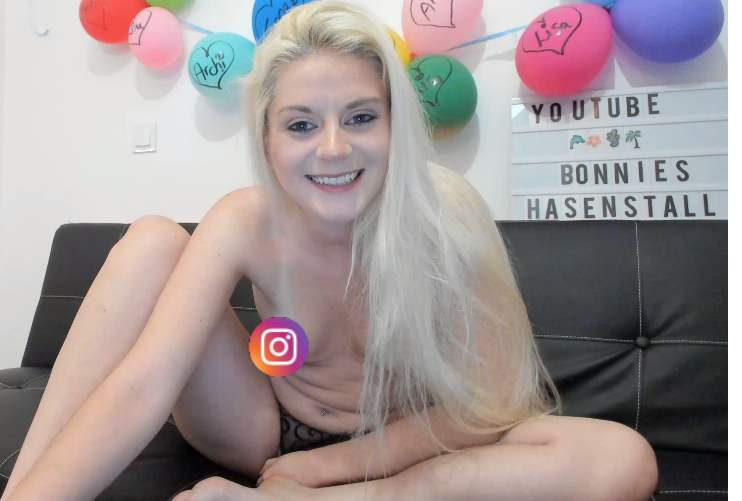
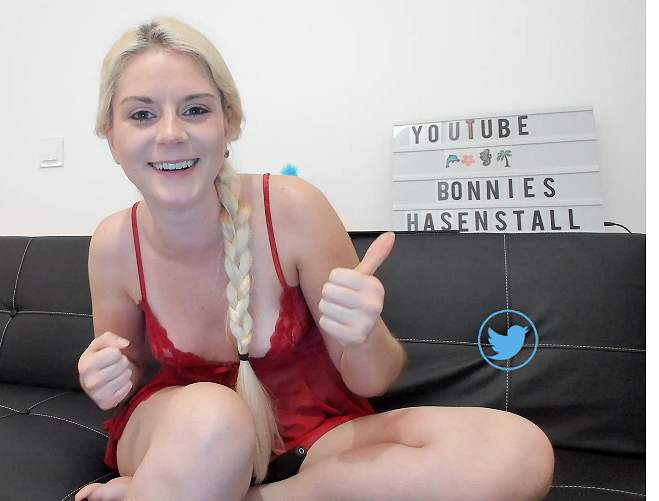
Commit to YOURCURRENTBRANCH

diff --git a/girls/bonnie/_vti_cnf/jungespaar2822.htm b/girls/bonnie/_vti_cnf/jungespaar2822.htm
@@ -1,11 +1,11 @@
 vti_encoding:SR|utf8-nl
 vti_author:SR|Office-PC\\Office
 vti_modifiedby:SR|Office-PC\\Office
-vti_timelastmodified:TR|11 Jun 2020 10:51:51 -0000
+vti_timelastmodified:TR|11 Jun 2020 13:43:26 -0000
 vti_timecreated:TR|03 Nov 2019 10:23:31 -0000
 vti_title:SR|Die Livecam der Bonnie (jungespaar2822) live aus Madeira
 vti_extenderversion:SR|12.0.0.0
-vti_nexttolasttimemodified:TW|11 Jun 2020 10:50:25 -0000
+vti_nexttolasttimemodified:TW|11 Jun 2020 13:39:50 -0000
 vti_backlinkinfo:VX|index.htm girls/bonnie/jungespaar2822.htm AAAltes\\ Zeug/lisa/index.htm girls/hotbella/index.htm girls/sastina/index.htm girls/index.htm kimilee22/index.htm girls/veronika_rose/index.htm
 vti_syncofs_webcam-darstellerin.com\:21/webcam-darstellerin.com:TW|14 Nov 2019 10:40:54 -0000
 vti_syncwith_webcam-darstellerin.com\:21/webcam-darstellerin.com:TX|12 Nov 2019 11:52:58 -0000
@@ -18,12 +18,12 @@ vti_syncwith_93.104.209.49\:21/%2fhttpdocs/webcam-darstellerin.com:TX|11 Feb 202
 vti_syncofs_93.104.209.49\:21/%2fhttpdocs/webcam-darstellerin.com:TW|11 Feb 2020 15:27:44 -0000
 vti_syncwith_ftpupload.net\:21/%2fwebcam-darstellerin.com/htdocs:TX|11 Feb 2020 15:26:57 -0000
 vti_syncofs_ftpupload.net\:21/%2fwebcam-darstellerin.com/htdocs:TW|14 Feb 2020 19:49:24 -0000
-vti_cacheddtm:TX|11 Jun 2020 10:51:52 -0000
-vti_filesize:IR|14147
+vti_cacheddtm:TX|11 Jun 2020 13:43:26 -0000
+vti_filesize:IR|14043
 vti_cachedtitle:SR|Die Livecam der Bonnie (jungespaar2822) live aus Madeira
 vti_cachedbodystyle:SR|<body style="background-color: #FFD7D7; margin-left: 0; margin-right: 0; margin-top: 0;">
-vti_cachedlinkinfo:VX|H|../../index.htm S|../../dateien-deutsche-camgirls/banner.jpg K|jungespaar2822.htm K|jungespaar2822.htm S|bonnie-jungespaar2822.jpg H|Jungespaar2822\\ ist\\ die\\ Ulknudel\\ unter\\ den\\ deutschsprachigen\\ Webcam-Girls\\ und\\ liefert\\ ihren\\ Fans\\ auf\\ Chaturbate\\ eine\\ unterhaltsam\\ erotische\\ Show.\\ Auf\\ Twitch\\ begeistert\\ Camgirl\\ Bonnie\\ unter\\ dem\\ Namen\\ deinBonnieTV\\ mit\\ sportlichen\\ Übungen. K|jungespaar2822.htm K|jungespaar2822.htm -S|https://chaturbate.com/in/ -H|https://chaturbate.com/in/ -S|../zur-livecam.gif -K|bonnie.htm -H|https://amzn.to/2QeJQDh I|bonnie.htm H|https://twitter.com/bonnieclydecb H|https://www.tiktok.com/@bonnieclydecb H|https://www.twitch.tv/deinbonnietv/ S|https://www.youtube-nocookie.com/embed/ILaV3zYAOng H|https://www.youtube.com/channel/UCDfNbqBCUe9yeG1Pbl1Es5Q H|jungespaar2822.htm H|../../kimilee22/index.htm H|../sastina/index.htm H|../hotbella/index.htm H|../veronika_rose/index.htm H|../index.htm S|../../impressum.gif -H|../../impressum/index.htm -H|../../index.htm -S|//sichere-verbindung.webcam-darstellerin.com/matomo.php I|../../footer.htm
-vti_cachedsvcrellinks:VX|FHUS|index.htm FSUS|dateien-deutsche-camgirls/banner.jpg FKUS|girls/bonnie/jungespaar2822.htm FKUS|girls/bonnie/jungespaar2822.htm FSUS|girls/bonnie/bonnie-jungespaar2822.jpg NHUS|girls/bonnie/Jungespaar2822\\ ist\\ die\\ Ulknudel\\ unter\\ den\\ deutschsprachigen\\ Webcam-Girls\\ und\\ liefert\\ ihren\\ Fans\\ auf\\ Chaturbate\\ eine\\ unterhaltsam\\ erotische\\ Show.\\ Auf\\ Twitch\\ begeistert\\ Camgirl\\ Bonnie\\ unter\\ dem\\ Namen\\ deinBonnieTV\\ mit\\ sportlichen\\ Übungen. FKUS|girls/bonnie/jungespaar2822.htm FKUS|girls/bonnie/jungespaar2822.htm FIUS|girls/bonnie/bonnie.htm NHSS|https://twitter.com/bonnieclydecb NHSS|https://www.tiktok.com/@bonnieclydecb NHSS|https://www.twitch.tv/deinbonnietv/ NSSS|https://www.youtube-nocookie.com/embed/ILaV3zYAOng NHSS|https://www.youtube.com/channel/UCDfNbqBCUe9yeG1Pbl1Es5Q FHUS|girls/bonnie/jungespaar2822.htm FHUS|kimilee22/index.htm FHUS|girls/sastina/index.htm FHUS|girls/hotbella/index.htm FHUS|girls/veronika_rose/index.htm FHUS|girls/index.htm FSUS|impressum.gif FIUS|footer.htm
+vti_cachedlinkinfo:VX|H|../../index.htm S|../../dateien-deutsche-camgirls/banner.jpg K|jungespaar2822.htm K|jungespaar2822.htm S|bonnie-jungespaar2822.jpg H|Jungespaar2822\\ ist\\ ein\\ deutschsprachiges\\ Webcam-Girl. K|jungespaar2822.htm K|jungespaar2822.htm -S|https://chaturbate.com/in/ -H|https://chaturbate.com/in/ -S|../zur-livecam.gif -K|bonnie.htm -H|https://amzn.to/2QeJQDh I|bonnie.htm H|https://twitter.com/bonnieclydecb H|https://www.tiktok.com/@bonnieclydecb H|https://www.twitch.tv/deinbonnietv/ S|https://www.youtube-nocookie.com/embed/ILaV3zYAOng H|https://www.youtube.com/channel/UCDfNbqBCUe9yeG1Pbl1Es5Q H|jungespaar2822.htm H|../../kimilee22/index.htm H|../sastina/index.htm H|../hotbella/index.htm H|../veronika_rose/index.htm H|../index.htm S|../../impressum.gif -H|../../impressum/index.htm -H|../../index.htm -S|//sichere-verbindung.webcam-darstellerin.com/matomo.php I|../../footer.htm
+vti_cachedsvcrellinks:VX|FHUS|index.htm FSUS|dateien-deutsche-camgirls/banner.jpg FKUS|girls/bonnie/jungespaar2822.htm FKUS|girls/bonnie/jungespaar2822.htm FSUS|girls/bonnie/bonnie-jungespaar2822.jpg NHUS|girls/bonnie/Jungespaar2822\\ ist\\ ein\\ deutschsprachiges\\ Webcam-Girl. FKUS|girls/bonnie/jungespaar2822.htm FKUS|girls/bonnie/jungespaar2822.htm FIUS|girls/bonnie/bonnie.htm NHSS|https://twitter.com/bonnieclydecb NHSS|https://www.tiktok.com/@bonnieclydecb NHSS|https://www.twitch.tv/deinbonnietv/ NSSS|https://www.youtube-nocookie.com/embed/ILaV3zYAOng NHSS|https://www.youtube.com/channel/UCDfNbqBCUe9yeG1Pbl1Es5Q FHUS|girls/bonnie/jungespaar2822.htm FHUS|kimilee22/index.htm FHUS|girls/sastina/index.htm FHUS|girls/hotbella/index.htm FHUS|girls/veronika_rose/index.htm FHUS|girls/index.htm FSUS|impressum.gif FIUS|footer.htm
 vti_cachedneedsrewrite:BR|true
 vti_cachedhasbots:BR|true
 vti_cachedhastheme:BR|false

diff --git a/girls/bonnie/jungespaar2822.htm b/girls/bonnie/jungespaar2822.htm
@@ -97,6 +97,9 @@ a {
 	margin-top: 3px;
 	margin-bottom: 3px;
 }
+.auto-style94 {
+	color: #484646;
+}
 </style>
 <meta content="Jungespaar2822,Livecam,Bonnie,Livestream,Webcamgirl,Webcam-Girl,Webcam-Darstellerin,Erotikdarstellerin,deutsch,deutschsprachig" name="keywords">
 <meta content="Das deutschsprachige Webcam-Girl Bonnie alias Jungespaar2822 sorgt mit seinen denkwürdigen Erotik-Livestreams auf Chaturbate für Furore." name="description">
@@ -124,10 +127,10 @@ a {
 	<h1 class="auto-style64">Die Livecam der Bonnie (jungespaar2822)*</h1>
 	<p class="auto-style26">
 	<map id="ImgMap1" name="ImgMap1">
-		<area alt="" coords="135, 169, 28" href="#Jungespaar2822 Socialmedia" shape="circle" target="_self">
-		<area alt="" coords="248, 42, 355, 110" href="#Jungespaar2822 Youtube Bonnies Hasenstall" shape="rect" target="_self">
+		<area alt="" coords="249, 167, 19" href="#Jungespaar2822 Socialmedia" shape="circle" target="_self">
+		<area alt="" coords="191, 54, 291, 116" href="#Jungespaar2822 Youtube Bonnies Hasenstall" shape="rect" target="_self">
 	</map>
-	<img alt="Jungespaar2822 (Bonnie) als deutsches Webcam-Girl auf Chaturbate." title="Webcam-Girl Jungespaar2822 (Bonnie)" class="auto-style93" height="246" longdesc="Jungespaar2822 ist die Ulknudel unter den deutschsprachigen Webcam-Girls und liefert ihren Fans auf Chaturbate eine unterhaltsam erotische Show. Auf Twitch begeistert Camgirl Bonnie unter dem Namen deinBonnieTV mit sportlichen Übungen." src="bonnie-jungespaar2822.jpg" style="float: left" usemap="#ImgMap1" width="364">Dass 
+	<img alt="Jungespaar2822 (Bonnie) als deutsches Webcam-Girl auf Chaturbate." title="Webcam-Girl Jungespaar2822 (Bonnie)" class="auto-style93" height="246" longdesc="Jungespaar2822 ist ein deutschsprachiges Webcam-Girl." src="bonnie-jungespaar2822.jpg" style="float: left" usemap="#ImgMap1" width="323">Dass 
 	die nach Madeira ausgewanderte Bonnie alias jungespaar2822 aus Stuttgart 
 	stammt, hört man am schwäbischen Unterton ihrer hochdeutschen Aussprache. 
 	Auf Chaturbate malträtiert Bonnie ihren Unterleib mit Domi, Lush und flacher 
@@ -135,7 +138,7 @@ a {
 	anmutet, als hätte man sie zu lange im Kreis gedreht. Bonnie vermag ihren 
 	Orgasmus zwecks Beantwortung von Chatbeiträgen zu unterbrechen, um ihn kurz 
 	darauf an gleicher Stelle fortzusetzen. Bonnie ist zeigefreudig aber auch 
-	kommunikativ. Der etwas irreführende Username "Jungespaar2822" resultiert 
+	kommunikativ. Der etwas irreführende Chaturbate-Name "Jungespaar2822" resultiert 
 	aus den einst gemeinsamen Auftritten mit ihrem Mann. Heute tritt sie 
 	ausnahmslos solo in Erscheinung, zumindest auf Chaturbate. Bonnies äußere 
 	Erscheinung weiß zu gefallen. An ihrer durchtrainierten Figur passt alles 
@@ -188,8 +191,8 @@ a {
 	ihr Gesicht erschien uns etwas zu pornös! Wenn das der Grund war, wird sie 
 	20 Jahre warten müssen, um für Instagram unattraktiv genug zu sein.</p>
 	<p class="auto-style58"><strong>
-	<span class="auto-style92">Bonnie auf Instagram:</span>
-	https://www.instagram.com/bonnieclyde.cb</strong></p>
+	<span class="auto-style92">Bonnie z.Zt. nicht auf Instagram:</span>
+	<span class="auto-style94">instagram.com/bonnieclyde.cb</span></strong></p>
 	<hr class="auto-style69">
 	<h3 class="auto-style58">Twitter</h3>
 	<p class="auto-style26">
